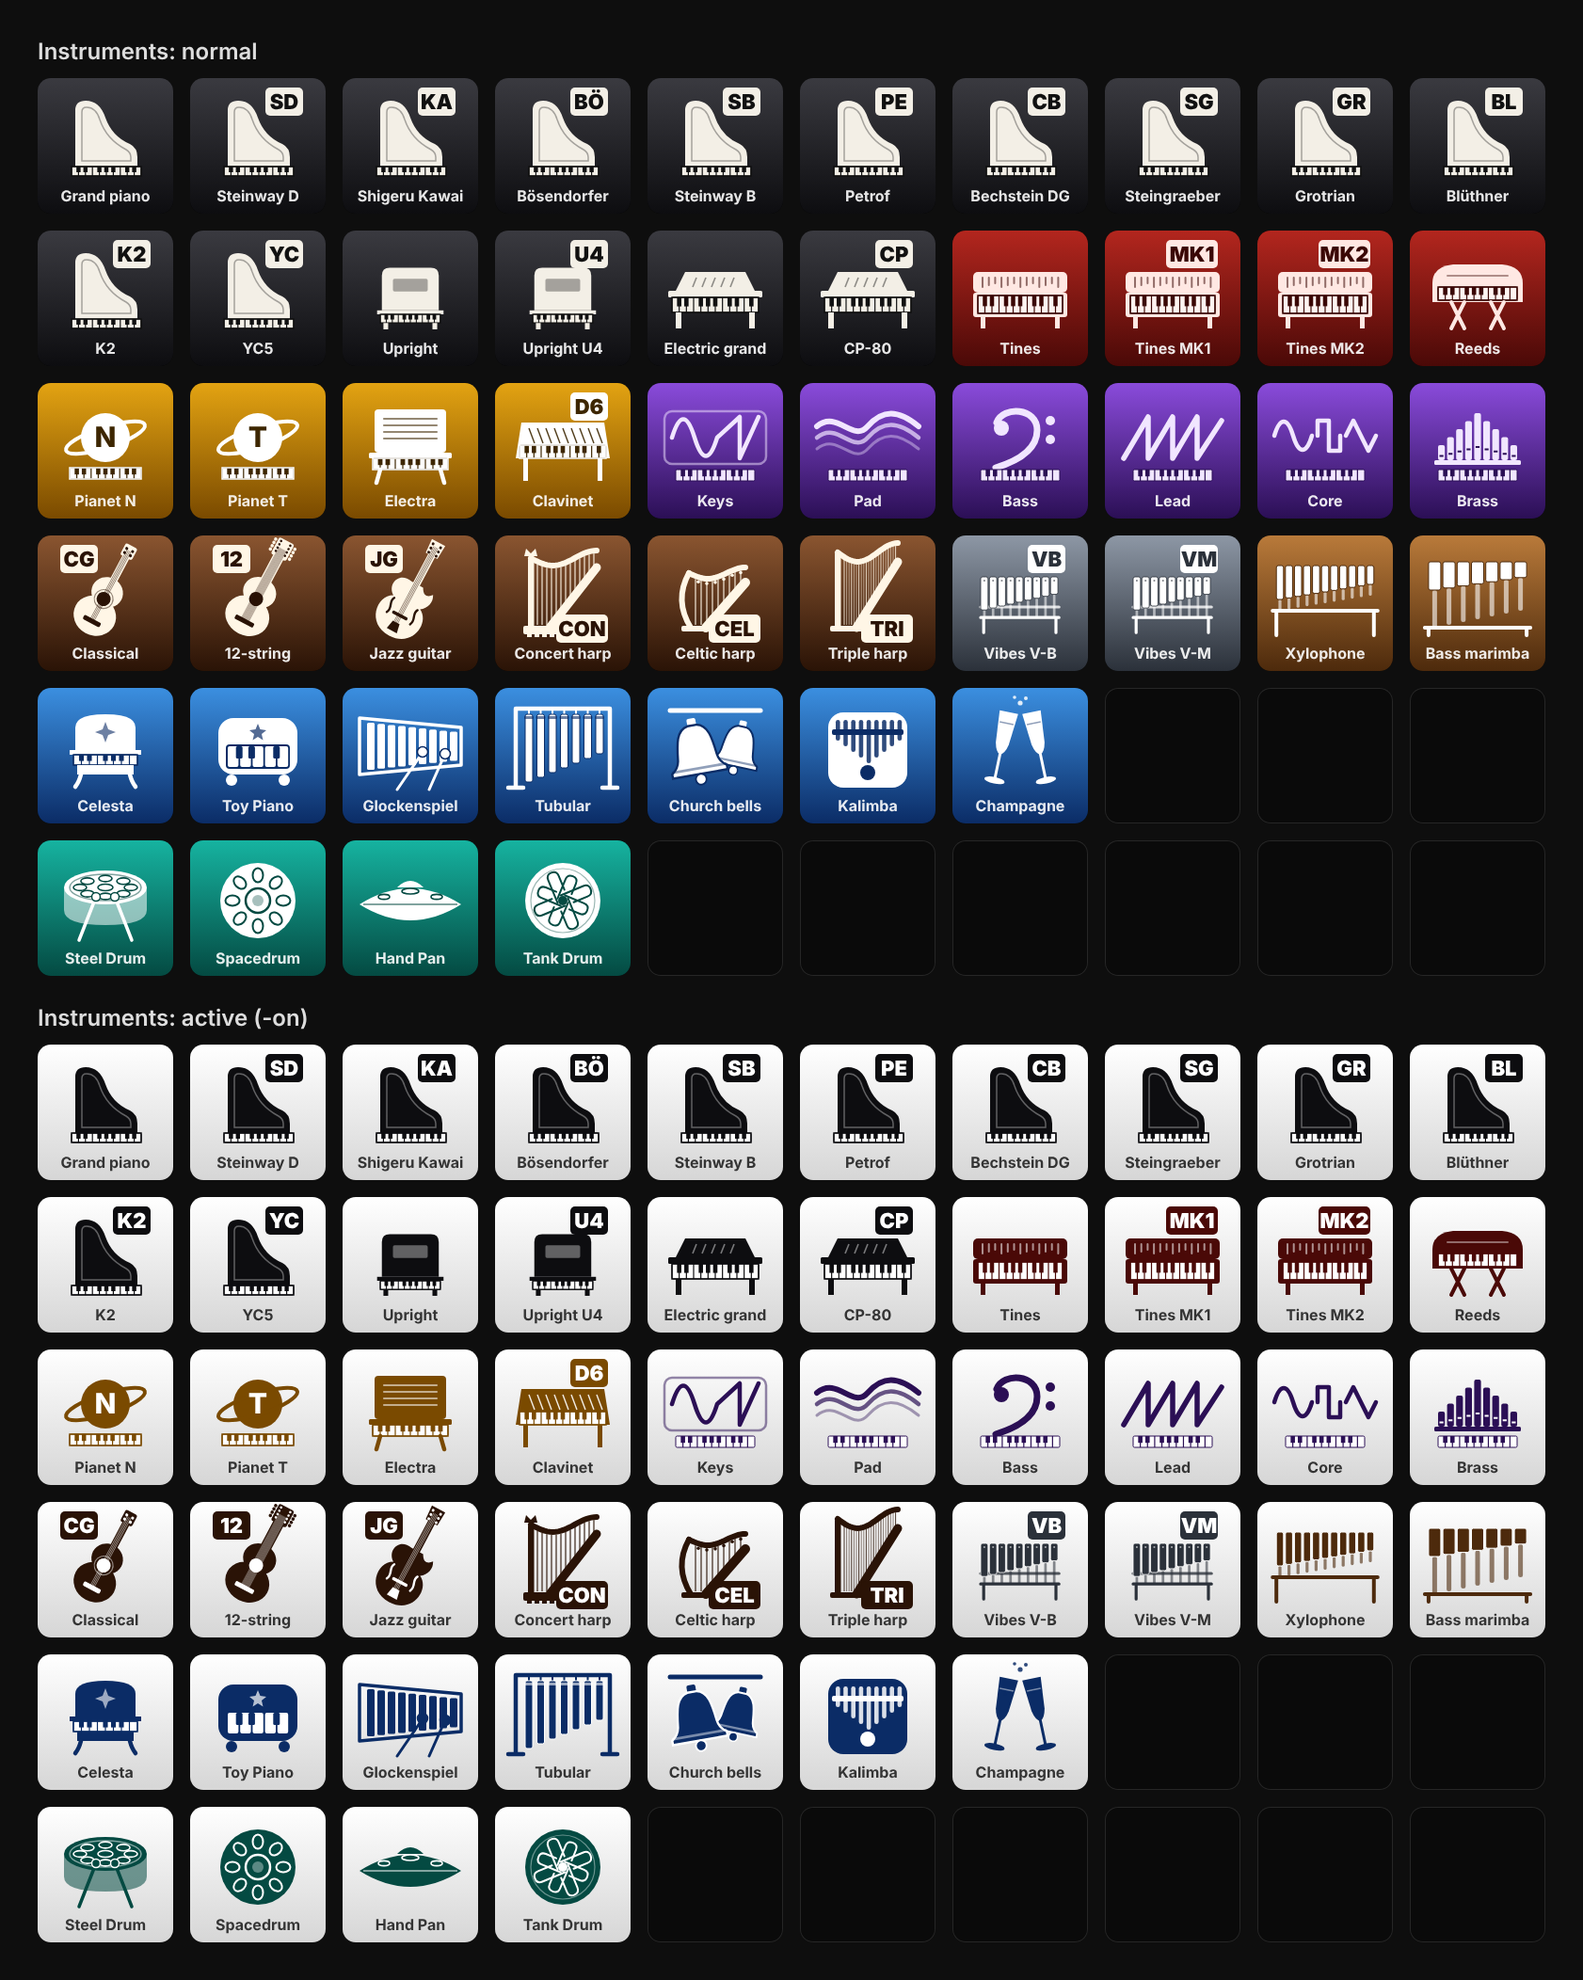
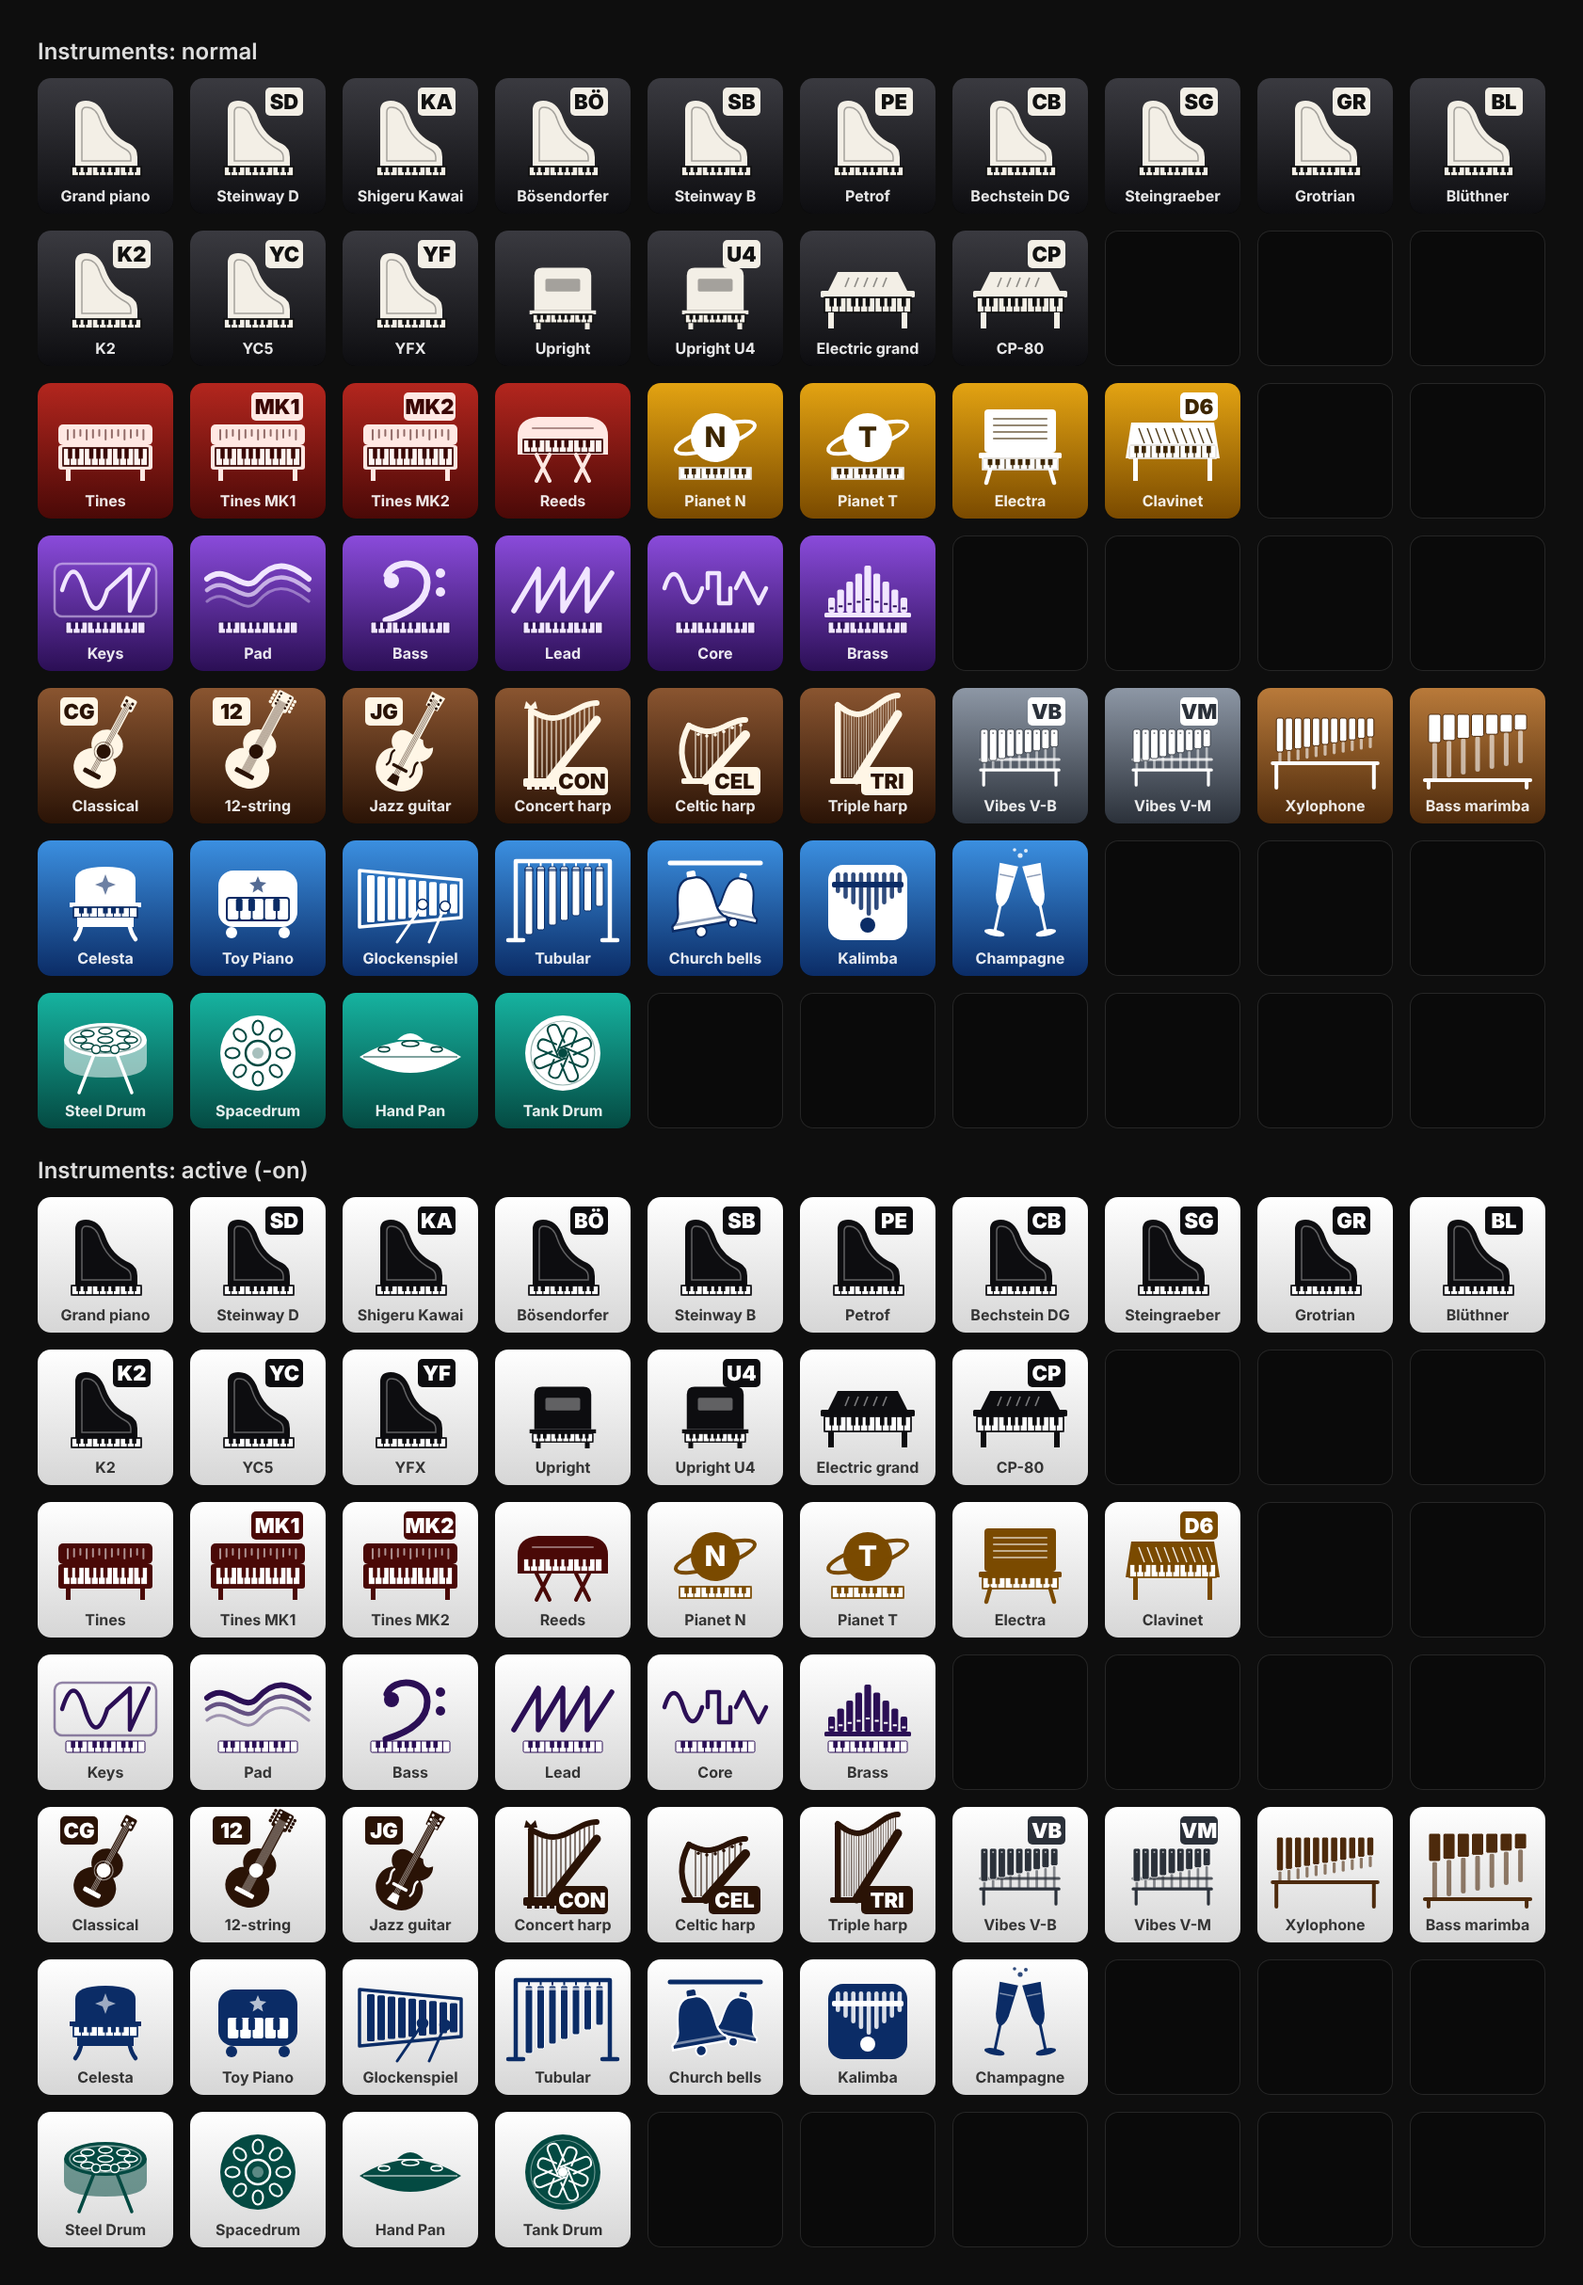
Add YFX Japanese Grand (badge YF) and regroup instrument rows
New instruments/grand-yfx-off/-on. The preview now groups rows as
grands, grands + uprights + CP-80, electric keys (tines, reeds,
Hohner), Syngular, plucked + mallets, Celeste pack and steel.

Claude-Session: https://claude.ai/code/session_01MK3Kvfpz5cvrZS4PvSHer6

diff --git a/src/sets.js b/src/sets.js
@@ -12,16 +12,21 @@ const INSTRUMENTS = [
     I('grand-steingraeber', 'piano', 'grand', 'SG', 'Steingraeber'), I('grand-grotrian', 'piano', 'grand', 'GR', 'Grotrian'),
     I('grand-bluthner', 'piano', 'grand', 'BL', 'Blüthner')],
   [I('grand-k2', 'piano', 'grand', 'K2', 'K2'), I('grand-yc5', 'piano', 'grand', 'YC', 'YC5'),
+    I('grand-yfx', 'piano', 'grand', 'YF', 'YFX'),
     I('upright', 'piano', 'upright', null, 'Upright'), I('upright-u4', 'piano', 'upright', 'U4', 'Upright U4'),
     I('electric-grand', 'piano', 'cp80', null, 'Electric grand'), I('cp80', 'piano', 'cp80', 'CP', 'CP-80'),
-    I('tines', 'electric', 'tines', null, 'Tines'),
+    null, null, null],
+  // Electric keys: tines/reeds (red) and Hohner (mustard).
+  [I('tines', 'electric', 'tines', null, 'Tines'),
     I('tines-mk1', 'electric', 'tines', 'MK1', 'Tines MK1'), I('tines-mk2', 'electric', 'tines', 'MK2', 'Tines MK2'),
-    I('reeds', 'electric', 'reeds', null, 'Reeds')],
-  [I('pianet-n', 'hohner', 'planet:N', null, 'Pianet N'), I('pianet-t', 'hohner', 'planet:T', null, 'Pianet T'),
+    I('reeds', 'electric', 'reeds', null, 'Reeds'),
+    I('pianet-n', 'hohner', 'planet:N', null, 'Pianet N'), I('pianet-t', 'hohner', 'planet:T', null, 'Pianet T'),
     I('electra-piano', 'hohner', 'electra', null, 'Electra'), I('clavinet-d6', 'hohner', 'clavinet', 'D6', 'Clavinet'),
-    I('syngular-keys', 'synth', 'synth', null, 'Keys'), I('syngular-pad', 'synth', 'pad', null, 'Pad'),
+    null, null],
+  [I('syngular-keys', 'synth', 'synth', null, 'Keys'), I('syngular-pad', 'synth', 'pad', null, 'Pad'),
     I('syngular-bass', 'synth', 'bass', null, 'Bass'), I('syngular-lead', 'synth', 'lead', null, 'Lead'),
-    I('syngular-core', 'synth', 'core', null, 'Core'), I('syngular-brass', 'synth', 'brass', null, 'Brass')],
+    I('syngular-core', 'synth', 'core', null, 'Core'), I('syngular-brass', 'synth', 'brass', null, 'Brass'),
+    null, null, null, null],
   [I('guitar-classical', 'guitar', 'guitar', 'tl:CG', 'Classical'), I('guitar-12', 'guitar', 'guitar12', 'tl:12', '12-string'),
     I('guitar-jazz', 'guitar', 'jazzGuitar', 'tl:JG', 'Jazz guitar'),
     I('harp-concert', 'guitar', 'harp:concert', 'br:CON', 'Concert harp'), I('harp-celtic', 'guitar', 'harp:celtic', 'br:CEL', 'Celtic harp'),
